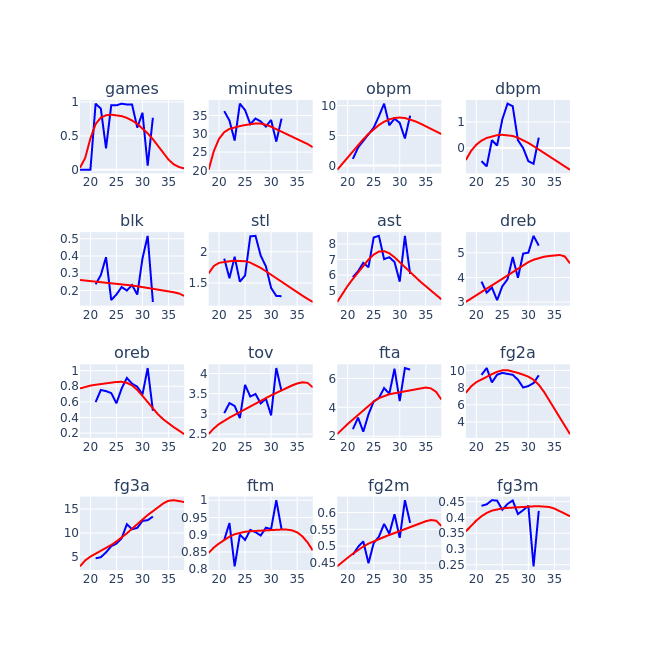
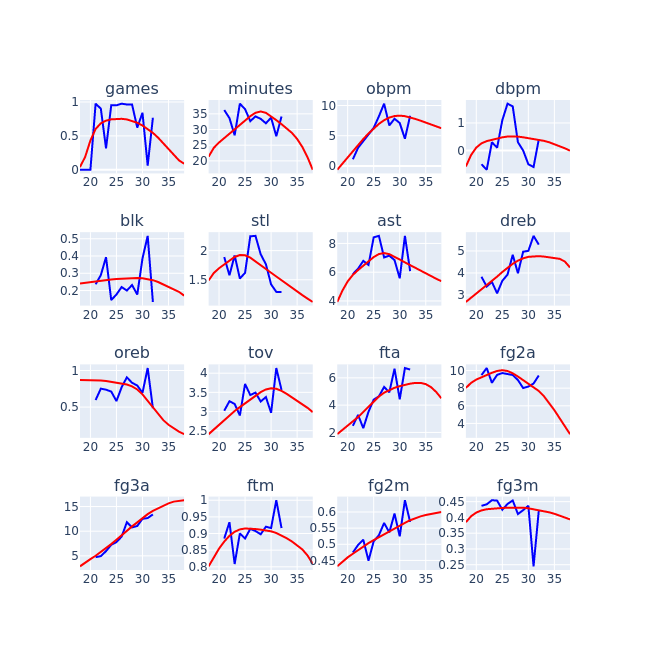
train for longer

diff --git a/main.py b/main.py
@@ -170,7 +170,7 @@ if __name__ == "__main__":
             if "convex" in model_name:
                 model_args.update({ "hsgp_params": hsgp_params})
             if svi_inference:
-                samples = model.run_svi_inference(num_steps=500000, model_args=model_args, initial_values=initial_params)
+                samples = model.run_svi_inference(num_steps=5000000, model_args=model_args, initial_values=initial_params)
             elif not neural_parametrization:
                 samples, extra_fields = model.run_inference(num_chains=4, num_samples=2000, num_warmup=1000, vectorized=vectorized, model_args=model_args, initial_values=initial_params)
             else:

diff --git a/model/models.py b/model/models.py
@@ -418,7 +418,7 @@ class ConvexTVRFLVM(TVRFLVM):
     def initialize_priors(self, *args, **kwargs) -> None:
         super().initialize_priors(*args, **kwargs)
         self.prior["lengthscale_deriv"] = InverseGamma(1.0, 1.0)
-        self.prior["sigma"] = InverseGamma(2.0, 60.0)
+        self.prior["sigma"] = InverseGamma(299.0, 6000.0)
         self.prior["alpha"] = InverseGamma(1.0, 1.0)
         self.prior["intercept"] = Normal()
         self.prior["slope"] = Normal()
